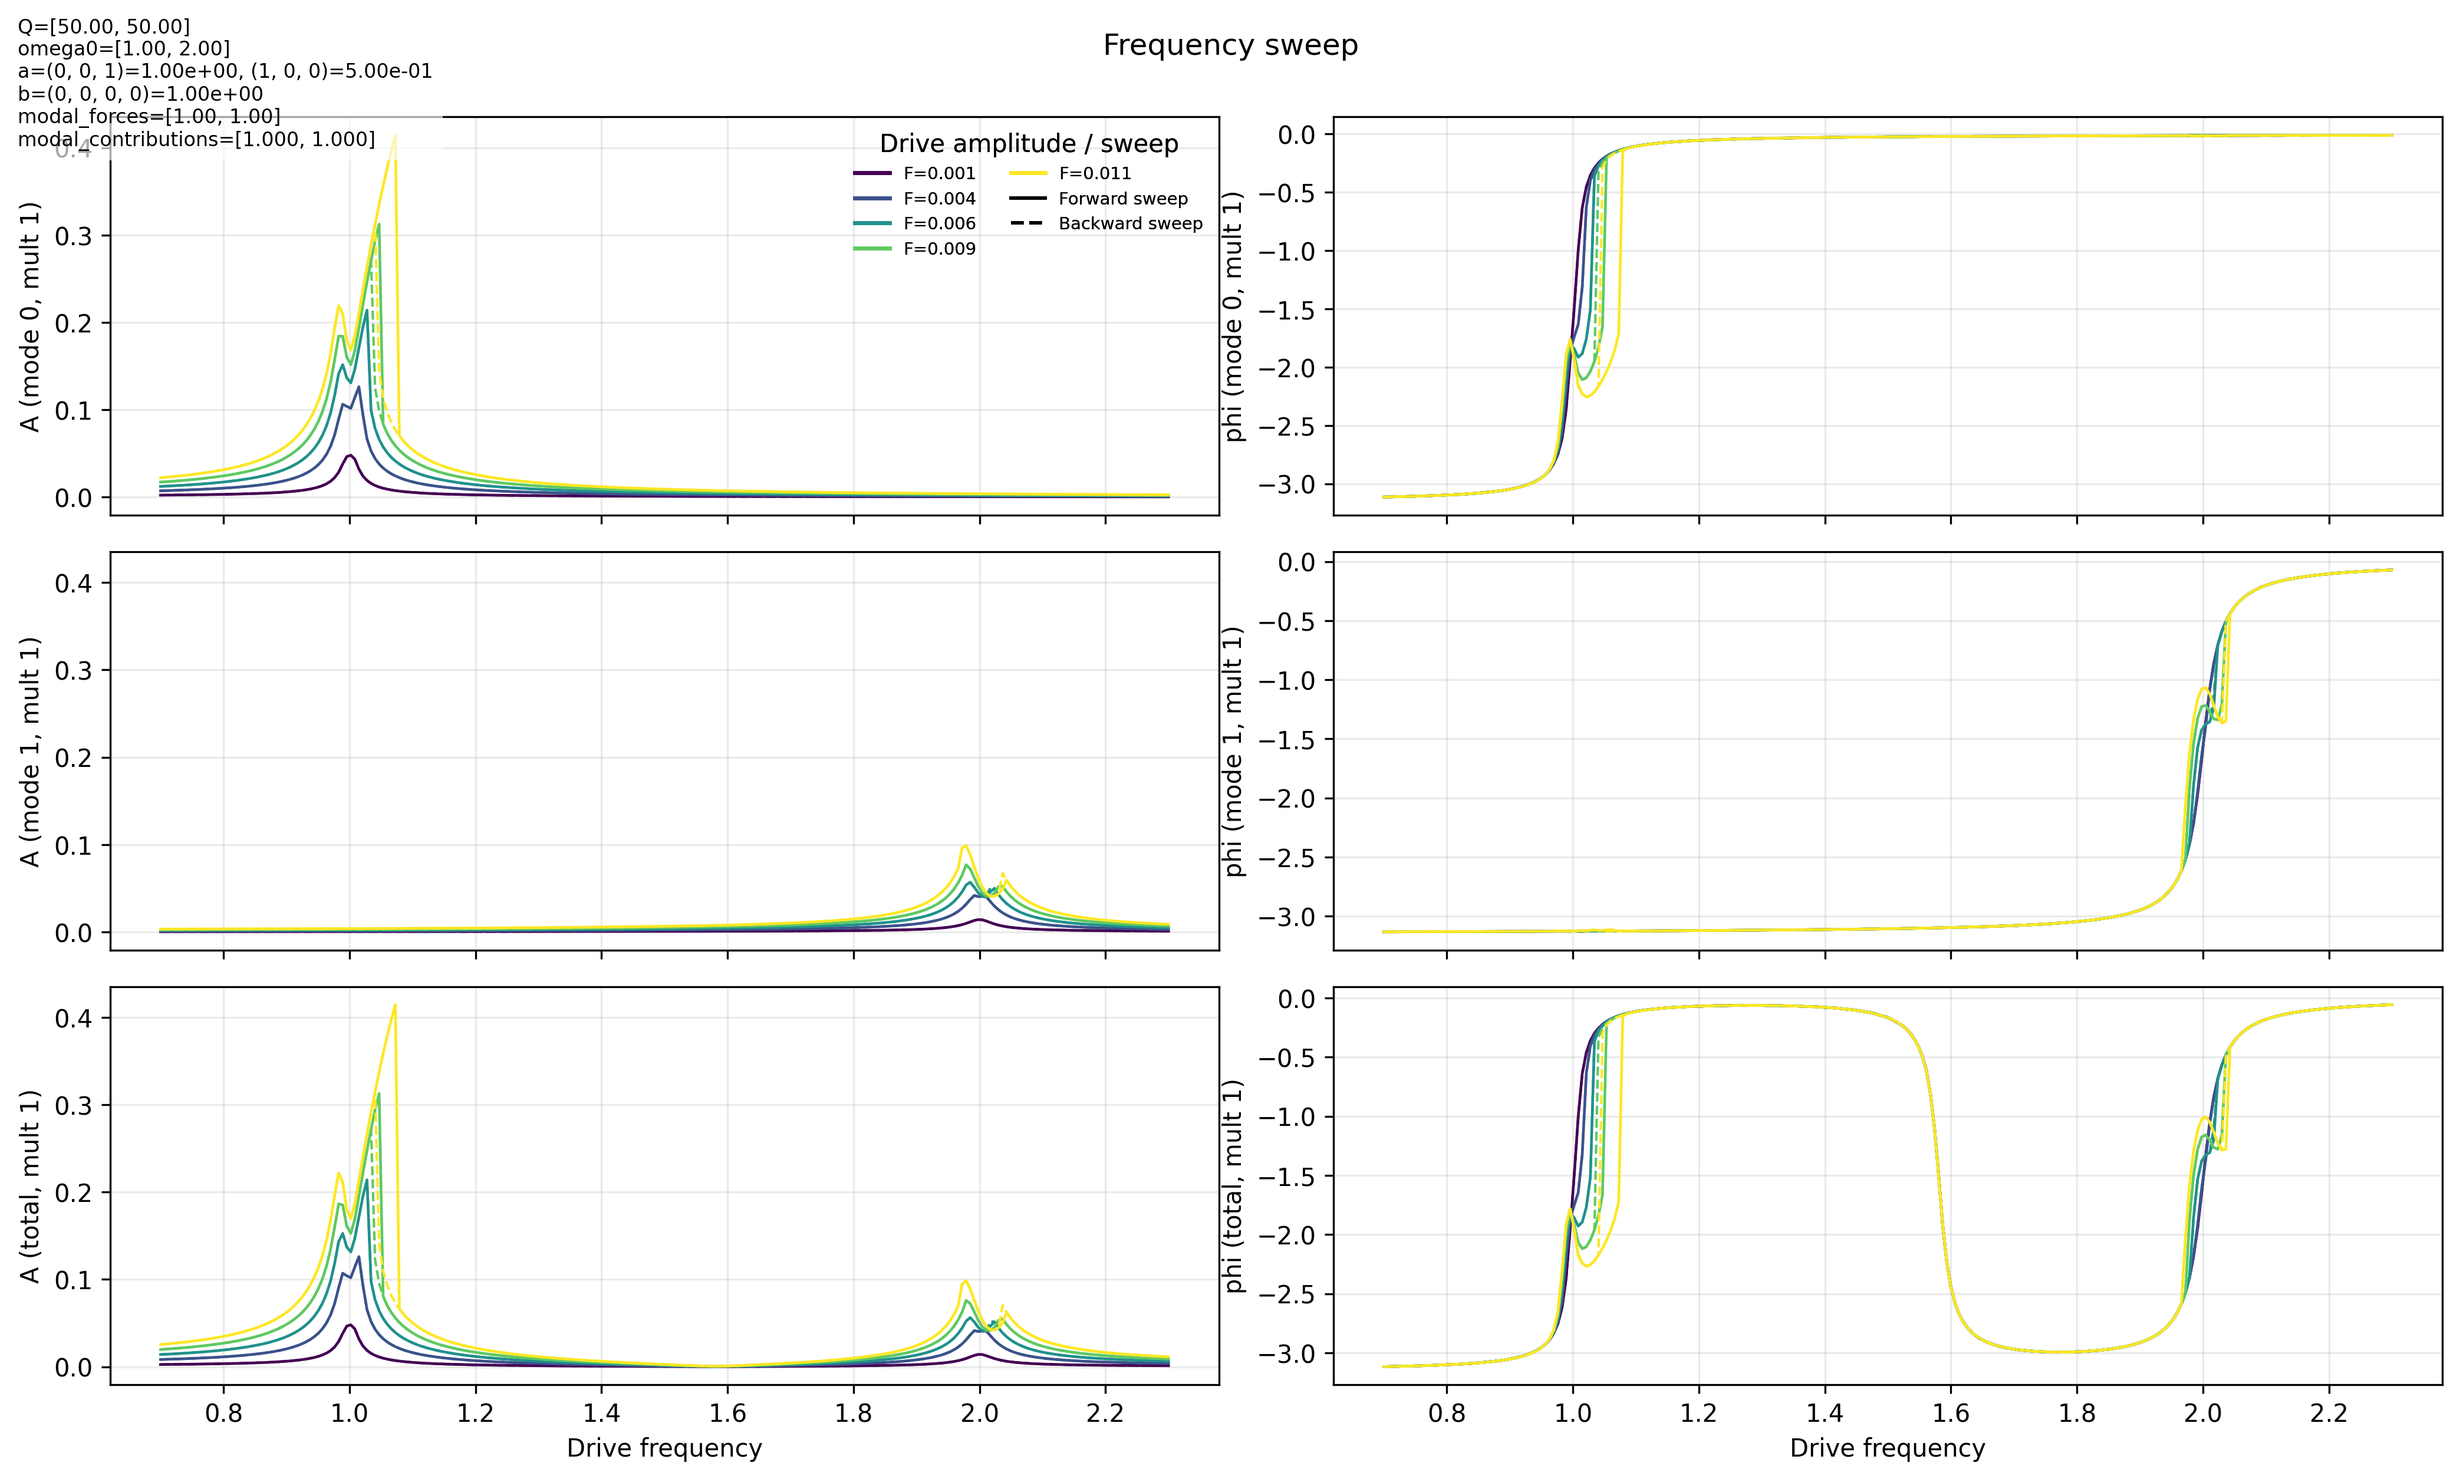
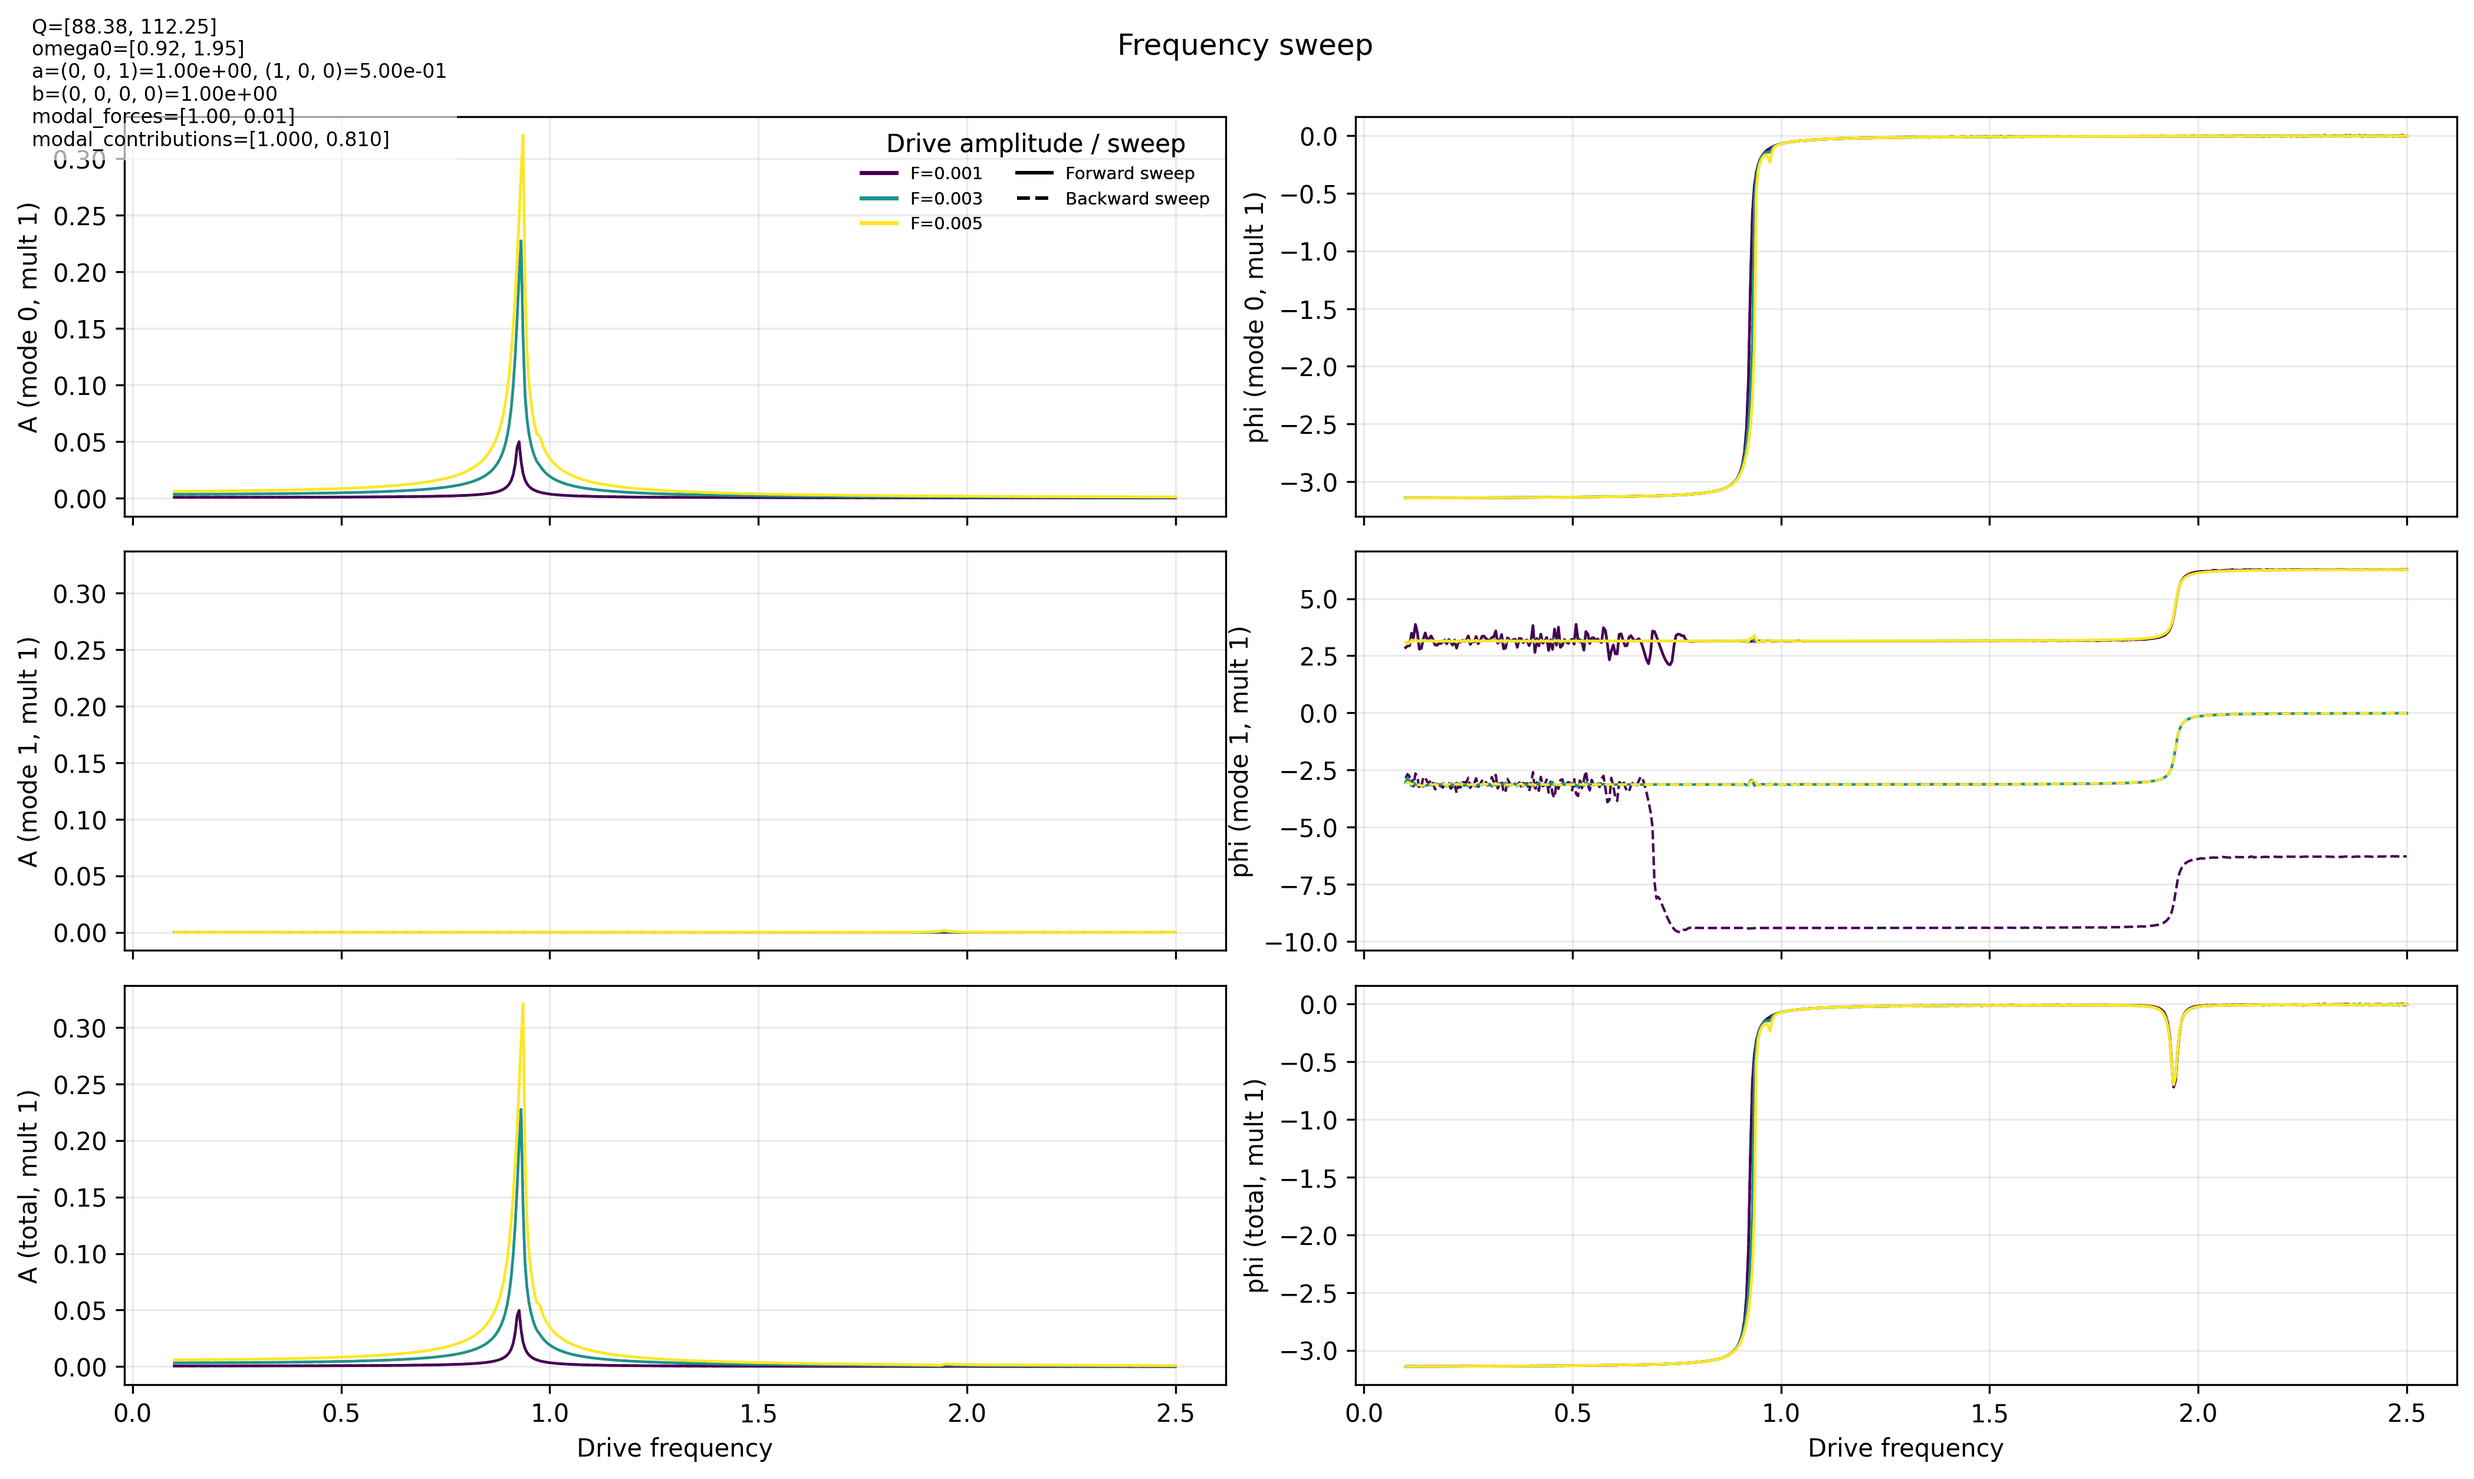
Fix demodulation class to exclude endpoint of time integration.

diff --git a/src/poscidyn/response_measure/demodulation.py b/src/poscidyn/response_measure/demodulation.py
@@ -1,14 +1,13 @@
-
 from equinox import filter_jit
 import jax.numpy as jnp
 from collections.abc import Sequence
 
 from .abstract_response_measure import AbstractResponseMeasure
 
-WINDOWS = [None, "hann", "hamming"]
+WINDOWS = [None, "hann", "hamming", "blackman", "bartlett"]
+
 
 class Demodulation(AbstractResponseMeasure):
-
     def __init__(
         self,
         multiples: Sequence[float] = (1.0,),
@@ -28,8 +27,14 @@ class Demodulation(AbstractResponseMeasure):
             self.window = jnp.hanning
         elif window == "hamming":
             self.window = jnp.hamming
+        elif window == "blackman":
+            self.window = jnp.blackman
+        elif window == "bartlett":
+            self.window = jnp.bartlett
         else:
-            raise ValueError(f"Unsupported window: {window}. Supported windows are: {WINDOWS}")
+            raise ValueError(
+                f"Unsupported window: {window}. Supported windows are: {WINDOWS}"
+            )
 
     def __call__(
         self,
@@ -49,31 +54,41 @@ class Demodulation(AbstractResponseMeasure):
         xs = jnp.asarray(xs)
         ts = jnp.asarray(ts)
 
-        n_ts = xs.shape[0]
-        n_modes = xs.shape[1]
+        n_ts, n_modes = xs.shape
+
         modal_contributions = self._resolve_modal_contributions(n_modes=n_modes)
-        modal_contributions = jnp.asarray(modal_contributions, dtype=xs.dtype)
+        modal_contributions = jnp.asarray(modal_contributions)
 
-        drive_omega = jnp.full((n_modes,), drive_omega)
+        drive_omega = jnp.asarray(drive_omega)
+        if drive_omega.ndim == 0:
+            drive_omega_modes = jnp.full((n_modes,), drive_omega)
+        else:
+            drive_omega_modes = drive_omega
 
-        w = self.window(n_ts)
-        demod_omegas = self.multiples[:, None] * drive_omega[None, :]
+        w = jnp.asarray(self.window(n_ts), dtype=xs.dtype)
+        cg = jnp.sum(w)
 
-        # exp_term shape: (n_multiples, n_ts, n_modes)
+        demod_omegas = self.multiples[:, None] * drive_omega_modes[None, :]
         exp_term = jnp.exp(-1j * demod_omegas[:, None, :] * ts[None, :, None])
+        C = jnp.sum(
+            exp_term * (xs[None, :, :] * w[None, :, None]),
+            axis=1,
+        )
 
-        # C shape: (n_multiples, n_modes)
-        C = jnp.sum(exp_term * (xs[None, :, :] * w[None, :, None]), axis=1)
-        # Total displacement phasor at the measurement point, per multiple.
-        C_total = jnp.sum(C * modal_contributions[None, :], axis=1)
+        x_total = jnp.sum(xs * modal_contributions[None, :], axis=1)
 
-        cg = w.sum()
+        total_demod_omegas = self.multiples * jnp.max(drive_omega_modes)
+        exp_total = jnp.exp(-1j * total_demod_omegas[:, None] * ts[None, :])
+        C_total = jnp.sum(
+            exp_total * (x_total[None, :] * w[None, :]),
+            axis=1,
+        )
+
         modal_amplitudes = 2.0 * jnp.abs(C) / cg
         modal_phase_rad = jnp.angle(C)
+
         total_amplitudes = 2.0 * jnp.abs(C_total) / cg
         total_phase_rad = jnp.angle(C_total)
-
-        total_demod_omegas = self.multiples * jnp.max(drive_omega)
 
         return {
             "modal": {

diff --git a/tests/test_freq_sweep.py b/tests/test_freq_sweep.py
@@ -27,23 +27,25 @@ def f_d_max(eta, omega_0, Q, b):
 # modal_contributions = np.array([1.0], dtype=float)
 
 # 2 mode example:
+DTYPE = np.float32
+
 n_modes = 2
-Q = np.array([50.0, 50.0])
-omega_0 = np.array([1.0, 2.0])
-a = np.zeros((n_modes, n_modes, n_modes))
-b = np.zeros((n_modes, n_modes, n_modes, n_modes))
+Q = np.array([88.37544, 112.25272], dtype=DTYPE)
+omega_0 = np.array([0.924636, 1.945411], dtype=DTYPE)
+a = np.zeros((n_modes, n_modes, n_modes), dtype=DTYPE)
+b = np.zeros((n_modes, n_modes, n_modes, n_modes), dtype=DTYPE)
 b[0, 0, 0, 0] = 1.0
 a[0,0,1] = 1.0
 a[1,0,0] = 0.5
-modal_forces = np.array([1.0, 1.0])
-modal_contributions = np.array([1.0, 1.0], dtype=float)
+modal_forces = np.array([1.0, 0.01044967], dtype=DTYPE)
+modal_contributions = np.array([1.0, 0.8104949], dtype=DTYPE)
 
 f_d_max_value = f_d_max(0.20, omega_0[0], Q[0], b[0, 0, 0, 0])
-f_d = f_d_max_value * modal_forces
 print(f"Calculated F_max: {f_d_max_value:.4f}")
+f_d = f_d_max_value * modal_forces
 
-drive_frequencies = np.linspace(0.7, 2.3, 250)
-drive_levels = np.linspace(0.1, 1.0, 5)
+drive_frequencies = np.linspace(0.1, 2.5, 512, dtype=DTYPE)
+drive_levels = np.linspace(0.1, 1.0, 3, dtype=DTYPE)
 
 OSCILLATOR = poscidyn.oscillator.Nonlinear(omega_0=omega_0, Q=Q,a=a, b=b)
 EXCITATION = poscidyn.excitation.DirectExcitation(f_d=f_d, omegas=drive_frequencies, lambdas=drive_levels)
@@ -52,13 +54,13 @@ SYNTHETIC_SWEEP = poscidyn.synthetic_sweep.NearestNeighbour(sweep_direction=[pos
 MULTISTART = poscidyn.multistart.LinearResponse(n_init_cond=16, linear_response_factor=1.0)
 SOLVER = poscidyn.solver.TimeIntegration(
     multistart=MULTISTART, synthetic_sweep=SYNTHETIC_SWEEP,
-    max_steps=4096 * 5, n_time_steps=5, verbose=True, throw=False, rtol=1e-4, atol=1e-7,
-    periods_to_retain=4
+    max_steps=4096 * 5, n_time_steps=20, verbose=True, throw=False, rtol=1e-5, atol=1e-7,
+    periods_to_retain=2
 )
 
-RESPONSE_MEASURE = poscidyn.Demodulation(multiples=(1,), modal_contributions=modal_contributions, window="hann")
+RESPONSE_MEASURE = poscidyn.Demodulation(multiples=(1,), modal_contributions=modal_contributions, window=None)
 #RESPONSE_MEASURE = poscidyn.Max(mode_shape=modal_contributions)
-PRECISION = poscidyn.Precision.SINGLE
+PRECISION = poscidyn.Precision.DOUBLE
 
 print(OSCILLATOR)
 

diff --git a/src/poscidyn/response_measure/abstract_response_measure.py b/src/poscidyn/response_measure/abstract_response_measure.py
@@ -3,10 +3,8 @@ from abc import ABC, abstractmethod
 
 class AbstractResponseMeasure(ABC):
     def __init__(self, modal_contributions: jnp.ndarray | None = None):
-        # Default to the fundamental component so callers can treat
-        # all response measures uniformly (Demodulation overrides this).
         self.multiples = jnp.asarray((1.0,))
-        self.modal_contributions = None if modal_contributions is None else jnp.asarray(modal_contributions)
+        self.modal_contributions = modal_contributions
 
     def _resolve_modal_contributions(
         self,
@@ -14,7 +12,6 @@ class AbstractResponseMeasure(ABC):
     ) -> jnp.ndarray:
         shape = self.modal_contributions
         if shape is None:
-            # Backward-compatible default: equal weighting of all modal coordinates.
             return jnp.ones((n_modes,))
         shape = jnp.asarray(shape)
         if shape.ndim != 1:

diff --git a/src/poscidyn/solver/time_integration.py b/src/poscidyn/solver/time_integration.py
@@ -109,7 +109,13 @@ class TimeIntegration(AbstractSolver):
             
             t0 = 0.0
             t1 = t_ss + T
-            ts = jnp.linspace(t_ss, t1, self.n_time_steps * self.periods_to_retain)
+
+            ts = jnp.linspace(
+                t_ss,
+                t1,
+                self.n_time_steps * self.periods_to_retain,
+                endpoint=False,
+            )
 
             sol = diffrax.diffeqsolve(
                 terms=diffrax.ODETerm(self._rhs),
